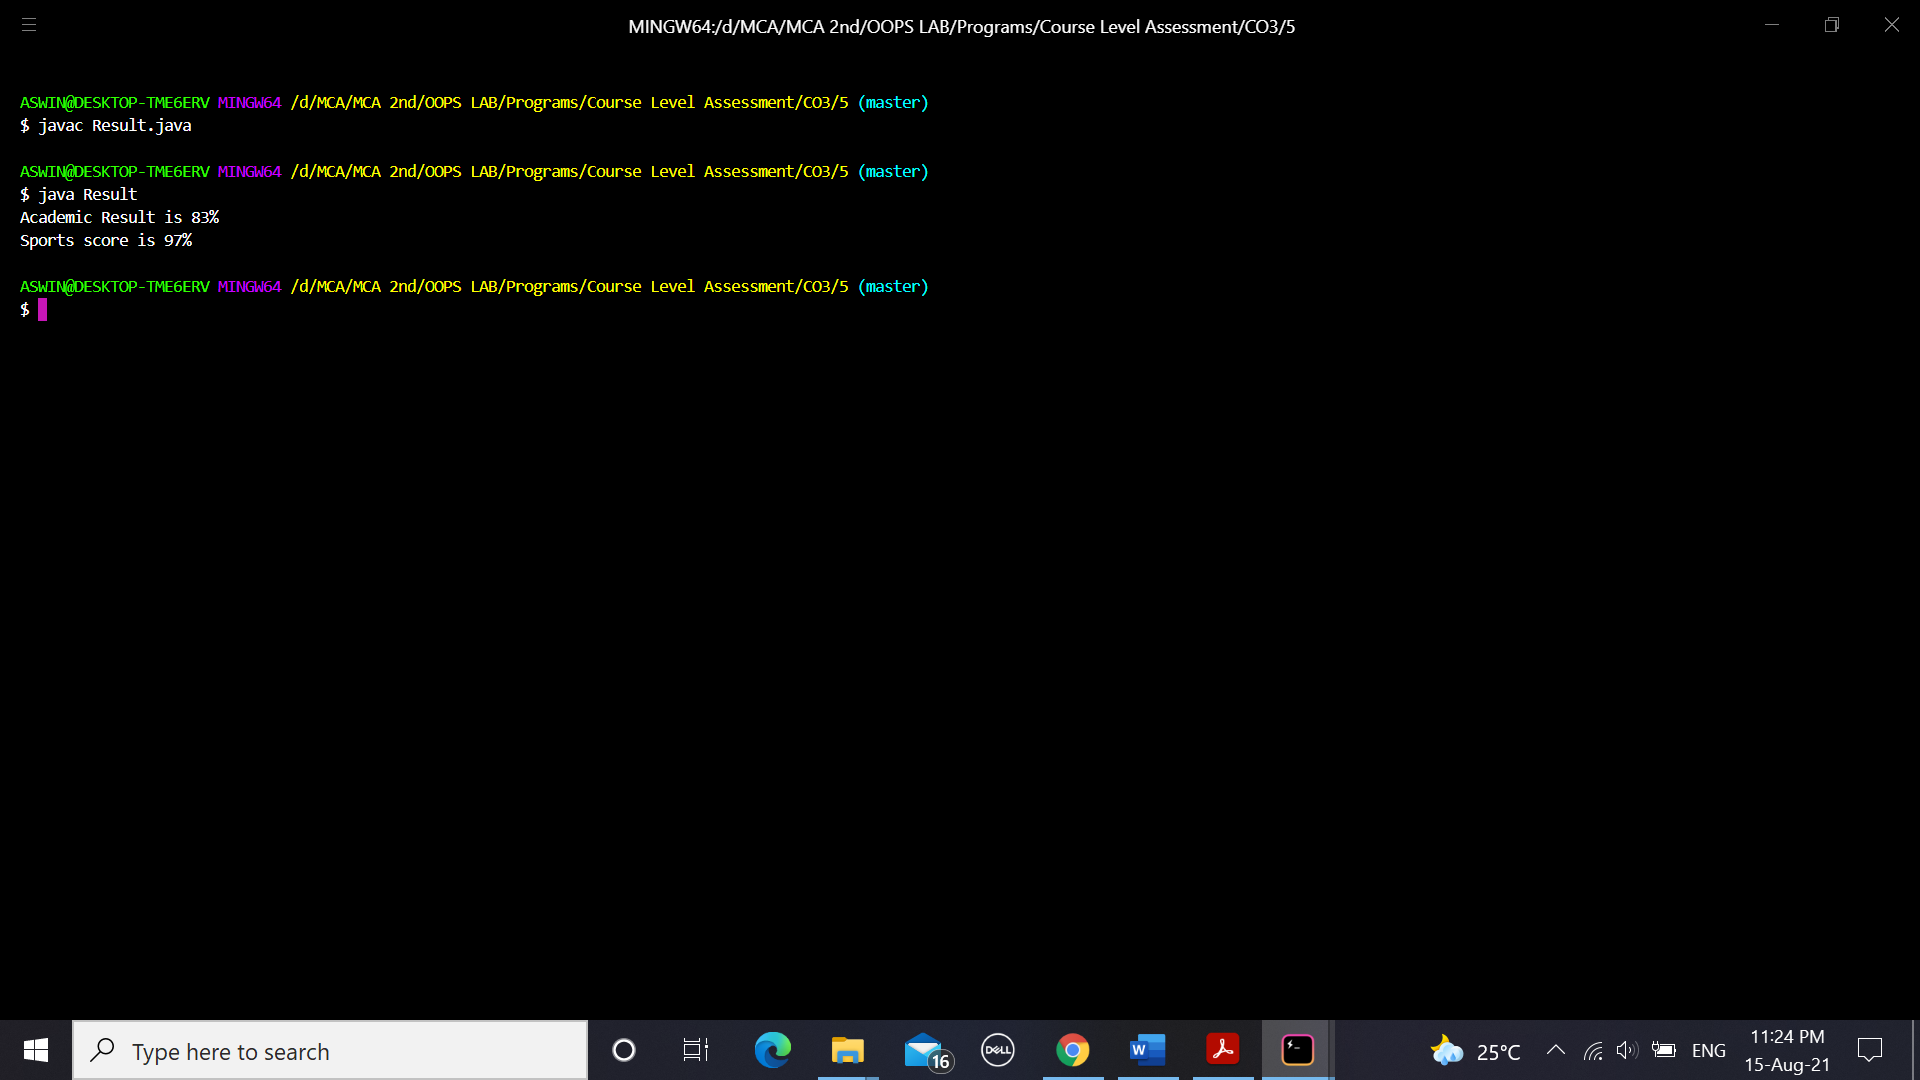
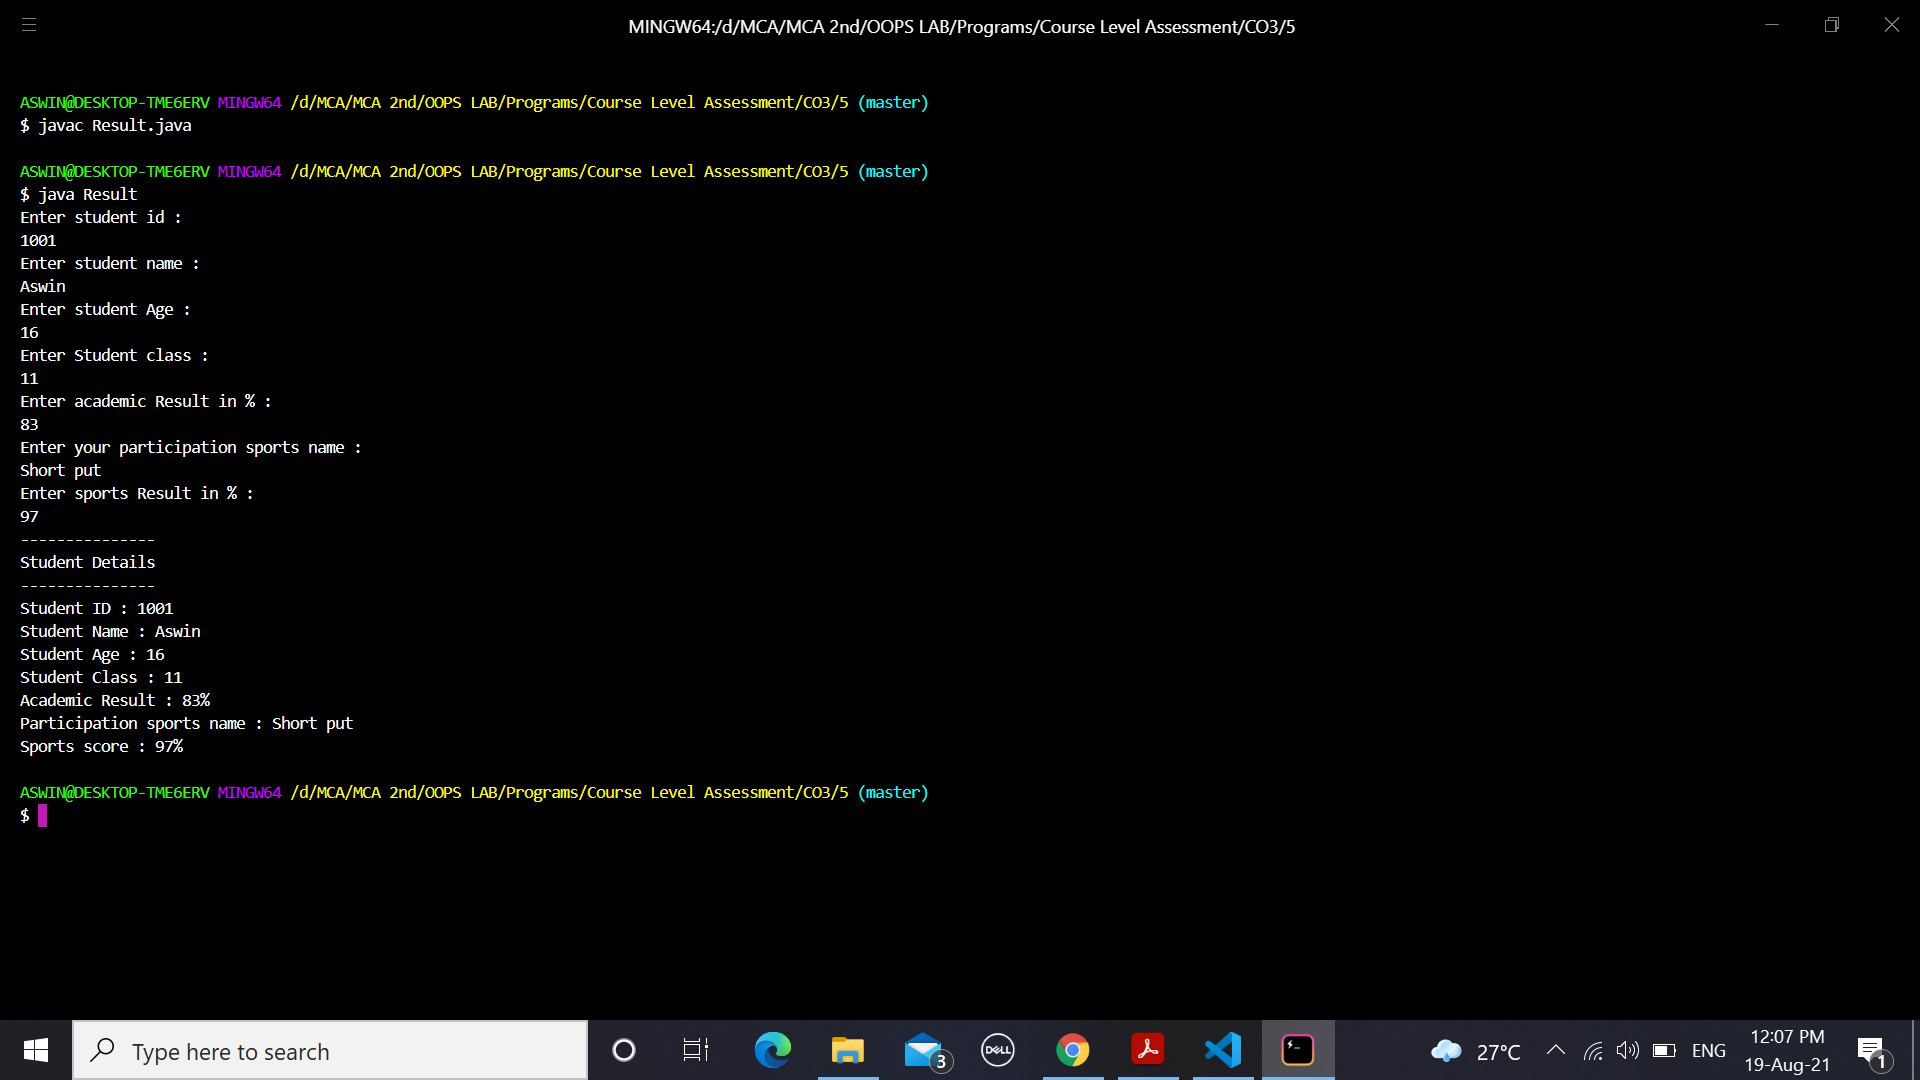
CO3 5

diff --git a/Course Level Assessment/CO3/5/Result.java b/Course Level Assessment/CO3/5/Result.java
@@ -1,23 +1,59 @@
+import java.util.Scanner;
 interface ResultInt{
     void res();
 }
 
 class Student implements ResultInt{
+    int id,age,std,acres;
+    String name;
+    public void StudentDetails(){
+        Scanner sc=new Scanner(System.in);
+        System.out.println("Enter student id : ");
+        id=Integer.parseInt(sc.nextLine());
+        System.out.println("Enter student name : ");
+        name=sc.nextLine();
+        System.out.println("Enter student Age : ");
+        age=Integer.parseInt(sc.nextLine());
+        System.out.println("Enter Student class : ");
+        std=Integer.parseInt(sc.nextLine());
+        System.out.println("Enter academic Result in % : ");
+        acres=Integer.parseInt(sc.nextLine());
+
+    }
     public void res(){
-        System.out.println("Academic Result is 83%"); 
+        System.out.println("---------------");
+        System.out.println("Student Details");
+        System.out.println("---------------");
+        System.out.println("Student ID : "+id);
+        System.out.println("Student Name : "+name);
+        System.out.println("Student Age : "+age);
+        System.out.println("Student Class : "+std);
+        System.out.println("Academic Result : "+acres+"%"); 
     }
 }
 
 class Sports implements ResultInt{
+    int sres;
+    String Sname;
+    public void SportsDetails(){
+        Scanner sc=new Scanner(System.in);
+        System.out.println("Enter your participation sports name : ");
+        Sname=sc.nextLine();
+        System.out.println("Enter sports Result in % : ");
+        sres=Integer.parseInt(sc.nextLine());
+    }
     public void res(){
-        System.out.println("Sports score is 97%");
+        System.out.println("Participation sports name : "+Sname);
+        System.out.println("Sports score : "+sres+"%");
     }
 }
 
 public class Result {
     public static void main(String[] args) {
-        ResultInt ob1=new Student();
-        ResultInt ob2=new Sports();
+        Student ob1=new Student();
+        Sports ob2=new Sports();
+        ob1.StudentDetails();
+        ob2.SportsDetails();
         ob1.res();
         ob2.res();
     }
